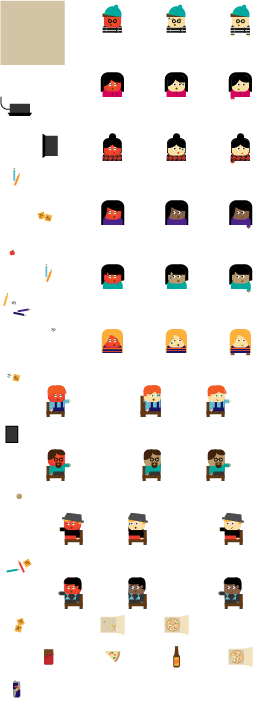
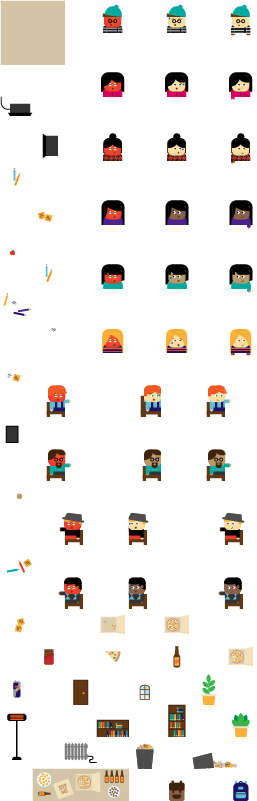
tiled stuff

diff --git a/Assets/Tiled/FlameJam/Assets.tsx b/Assets/Tiled/FlameJam/Assets.tsx
@@ -1,6 +1,6 @@
 <?xml version="1.0" encoding="UTF-8"?>
-<tileset version="1.2" tiledversion="1.3.1" name="Assets" tilewidth="32" tileheight="32" tilecount="176" columns="8">
- <image source="Assets.png" width="257" height="705"/>
+<tileset version="1.2" tiledversion="1.3.1" name="Assets" tilewidth="32" tileheight="32" tilecount="200" columns="8">
+ <image source="Assets.png" width="257" height="801"/>
  <tile id="0">
   <objectgroup draworder="index" id="2">
    <object id="1" x="0.125" y="0.125" width="31.625" height="31.5"/>
@@ -418,6 +418,92 @@
  <tile id="152">
   <objectgroup draworder="index" id="2">
    <object id="1" x="13.5148" y="8.71262" width="11.8684" height="16.945"/>
+  </objectgroup>
+ </tile>
+ <tile id="174">
+  <objectgroup draworder="index" id="2">
+   <object id="1" x="23.6681" y="31.9005">
+    <polygon points="0,0 -0.41162,-6.79172 1.37207,-6.72312 1.64648,-10.3591 -5.41966,-10.2905 -5.21385,-11.4567 0.0686033,-14.6125 -0.41162,-18.6601 -0.960446,-20.0322 -0.0686033,-22.9135 -0.480223,-24.4914 -4.1162,-23.9425 -4.80223,-28.1273 -7.40915,-29.911 -8.71262,-29.0192 -9.33005,-25.1088 -8.3696,-21.7472 -8.301,-21.1298 -11.594,-22.5019 -12.8974,-22.2961 -13.309,-19.4833 -10.8393,-16.4648 -8.4382,-15.7788 -12.8974,-16.0532 -13.3776,-14.1323 -11.5254,-10.2905 -15.5729,-9.94748 -15.2985,-7.54636 -14.4753,-6.10569 -14.2009,-4.1162 -13.3776,-2.74413 -13.1032,0.0686033"/>
+   </object>
+  </objectgroup>
+ </tile>
+ <tile id="176">
+  <objectgroup draworder="index" id="2">
+   <object id="1" x="18.3171" y="31.7633">
+    <polygon points="0,0 -0.137207,-14.6125 8.09519,-14.4753 9.19284,-16.8078 9.26144,-22.1589 6.58591,-23.3251 -9.19284,-23.3937 -11.594,-21.6786 -11.6626,-15.916 -10.3591,-14.6125 -2.94994,-14.4067 -2.81273,0.274413"/>
+   </object>
+  </objectgroup>
+ </tile>
+ <tile id="183">
+  <objectgroup draworder="index" id="2">
+   <object id="1" x="23.2565" y="32.2435">
+    <polygon points="0,0 0,-7.47776 1.78369,-7.34055 1.9895,-10.9765 3.43016,-14.8183 2.81273,-16.945 1.02905,-17.3566 0.0686033,-21.8158 -1.78369,-22.2275 -3.29296,-20.581 -6.03709,-24.1484 -9.33005,-21.3356 -13.1032,-21.7472 -13.6521,-16.6706 -15.7102,-16.5334 -14.8183,-10.9765 -14.6811,-6.79172 -12.7602,-6.86033 -12.7602,-0.20581"/>
+   </object>
+  </objectgroup>
+ </tile>
+ <tile id="184">
+  <objectgroup draworder="index" id="2">
+   <object id="1" x="22.1589" y="24.217">
+    <polygon points="0,0 -11.594,0.20581 -10.3591,-2.60692 -6.58591,-4.80223 -6.51731,-24.4228 -3.70458,-24.217 -3.49877,-4.32201 -1.02905,-4.2534 0.686033,-0.823239"/>
+   </object>
+  </objectgroup>
+ </tile>
+ <tile id="186">
+  <objectgroup draworder="index" id="2">
+   <object id="1" x="0.61743" y="6.44871" width="31.0773" height="21.1984"/>
+  </objectgroup>
+ </tile>
+ <tile id="188">
+  <objectgroup draworder="index" id="2">
+   <object id="1" x="24.2856" y="31.7633">
+    <polygon points="0,0 1.92089,-18.1799 2.26391,-21.1984 -6.51731,-25.1774 -10.5649,-24.9716 -16.6706,-20.4438 -16.3276,0.20581"/>
+   </object>
+  </objectgroup>
+ </tile>
+ <tile id="190">
+  <objectgroup draworder="index" id="2">
+   <object id="1" x="31.2145" y="25.0402">
+    <polygon points="0,0 -9.81027,-1.57788 -11.3881,-9.60446 -30.6657,-4.59642 -31.0773,6.99753 0.548826,7.06614"/>
+   </object>
+  </objectgroup>
+ </tile>
+ <tile id="191">
+  <objectgroup draworder="index" id="2">
+   <object id="1" x="0.20581" y="24.6972" width="13.3776" height="7.20334"/>
+  </objectgroup>
+ </tile>
+ <tile id="193">
+  <objectgroup draworder="index" id="2">
+   <object id="1" x="0.754636" y="0.548826" width="31.2145" height="31.5575"/>
+  </objectgroup>
+ </tile>
+ <tile id="194">
+  <objectgroup draworder="index" id="2">
+   <object id="1" x="0.0686033" y="1.02905" width="31.8319" height="30.9401"/>
+  </objectgroup>
+ </tile>
+ <tile id="195">
+  <objectgroup draworder="index" id="2">
+   <object id="1" x="0" y="0.891843" width="32.0377" height="30.8715"/>
+  </objectgroup>
+ </tile>
+ <tile id="196">
+  <objectgroup draworder="index" id="2">
+   <object id="1" x="-3.08715" y="1.09765" width="4.1848" height="30.8715"/>
+  </objectgroup>
+ </tile>
+ <tile id="197">
+  <objectgroup draworder="index" id="2">
+   <object id="1" x="25.1774" y="31.9691">
+    <polygon points="0,0 0.20581,-17.0136 -2.60692,-18.3171 -2.53832,-20.1008 -5.89988,-20.1008 -6.58591,-18.4543 -10.8393,-17.9741 -10.7707,-20.1008 -14.4067,-20.1694 -16.4648,-16.602 -16.602,0"/>
+   </object>
+  </objectgroup>
+ </tile>
+ <tile id="199">
+  <objectgroup draworder="index" id="2">
+   <object id="1" x="25.3146" y="31.9005">
+    <polygon points="0,0 0.0686033,-15.0241 -1.64648,-16.7392 -1.71508,-19.2775 -5.00804,-19.7577 -5.69407,-19.0717 -10.6335,-19.6891 -11.2509,-18.3857 -14.8183,-19.2089 -15.2299,-16.8764 -17.0136,-14.2695 -16.8078,-0.0686033"/>
+   </object>
   </objectgroup>
  </tile>
 </tileset>
